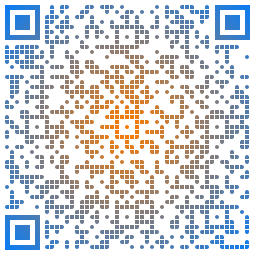
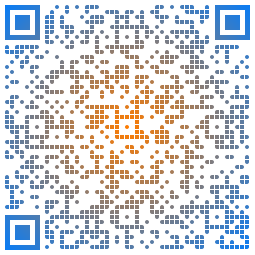
1st data integrity

diff --git a/main.py b/main.py
@@ -1,5 +1,7 @@
+import re
+import random
+from data_reliability import PhoneNumber, Name
 from driver import Driver
-import constants
 from tkinter import *
 import PIL.ImageTk as ImageTk
 import PIL.Image as Image
@@ -9,7 +11,7 @@ from qrcode.image.styledpil import StyledPilImage
 from qrcode.image.styles.moduledrawers import RoundedModuleDrawer, \
     CircleModuleDrawer, SquareModuleDrawer, GappedSquareModuleDrawer, QRModuleDrawer
 
-from qrcode.image.styles.colormasks import RadialGradiantColorMask, SquareGradiantColorMask, HorizontalGradiantColorMask
+from qrcode.image.styles.colormasks import RadialGradiantColorMask, SquareGradiantColorMask, HorizontalGradiantColorMask, VerticalGradiantColorMask
 
 root = Tk()
 root.title("Driver 2.0")
@@ -19,6 +21,8 @@ root.resizable(False, False)
 
 global drivr
 drivr = Driver(root)
+phno_secure_pattern = PhoneNumber.securepattern
+name_secure_pattern = Name.securepattern
 
 # Functions
 
@@ -31,6 +35,29 @@ def clear():
     address_box.delete(0, END)
     generate_button = Button(frame_1, text="GENERATE", state=DISABLED).grid(row=4, column=2, sticky=E)
     qr_code_initial = Label(frame_2, image=blank).grid(row=0, column=0, sticky=E+W)
+    clear_button = Button(frame_1, text="CLEAR", state=DISABLED, command=clear).grid(row=4, column=3, sticky=E + W)
+    randomize_button = Button(frame_2, text="RANDOMIZE", state=DISABLED).grid(row=1, column=0, pady=20)
+
+
+
+def color_randomizer():
+    edge_color = ()
+    r = random.randint(0, 200)
+    g = random.randint(0, 200)
+    b = random.randint(0, 200)
+    edge_color = (r, g, b)
+    if edge_color == (0, 0, 0) or edge_color == (200, 200, 200): edge_color = color_randomizer()
+    return edge_color
+
+def color_randomizer1():
+    edge_color = ()
+    r = random.randint(0, 150)
+    g = random.randint(0, 150)
+    b = random.randint(0, 150)
+    edge_color = (r, g, b)
+    if edge_color == (0, 0, 0) or edge_color == (200, 200, 200): edge_color = color_randomizer()
+    return edge_color
+
 
 def generate():
     qr = qrcode.QRCode(
@@ -47,28 +74,32 @@ def generate():
         image_factory=StyledPilImage,
         color_mask=RadialGradiantColorMask(center_color=(255, 124, 0), edge_color=(0, 124, 255)),
         module_drawer=RoundedModuleDrawer())
-    img.save("QR_Codes/demo2.png")
+    filename = "QR_Codes/" + str(drivr.name+"_"+drivr.phone_number) + ".png"
+    img.save(filename)
     # print("Generation Completed")
     # refresh_qr_code_button = Button(frame_2, text="REFRESH", command=refresh_qr_code).grid(row=1, column=0, sticky=E)
     # messagebox.showinfo("QR Code Status", "QR Code has been generated")
-    img = ImageTk.PhotoImage(Image.open("QR_Codes/demo2.png"))
-    qr_code_initial = Label(frame_2, image=img).grid(row=0, column=0, sticky=E+W)
-    qr_code_initial.configure(image=img)
-    qr_code_initial.image=img
+    global imgshow
+    imgshow = ImageTk.PhotoImage(Image.open(filename))
+    randomize_button = Button(frame_2, text="RANDOMIZE", command=randomize).grid(row=1, column=0, pady=20)
+    qr_code_initial = Label(frame_2, image=imgshow).grid(row=0, column=0, sticky=E+W)
+    print(type(qr_code_initial))
+    # qr_code_initial.configure(image=img)
+    # qr_code_initial.image=img
 
 
 def get_details():
 
-    if name_box.get() == "":
-        messagebox.showerror("Fill all the data", "fill the name")
+    if name_box.get() == "" or re.match(name_secure_pattern, name_box.get()) == None:
+        messagebox.showerror("Fill all the data", "fill VALID name")
         return
     drivr.name = name_box.get()
     if phone_box.get() == "":
-        messagebox.showerror("Fill all the data", "fill the phone number")
+        messagebox.showerror("Fill all the data", "fill VALID phone number")
         return
     drivr.phone_number = phone_box.get()
     if address_box.get() == "":
-        messagebox.showerror("Fill all the data", "fill the address")
+        messagebox.showerror("Fill all the data", "address can't be blank")
         return
     drivr.address = address_box.get()
 
@@ -86,9 +117,46 @@ def get_details():
     # print(name, phone, address, organisation_var, blood_group_var, month_validity, year_validity)
     clear_button = Button(frame_1, text="CLEAR", command=clear).grid(row=4, column=3, sticky=E+W)
     generate_button = Button(frame_1, text="GENERATE", command=generate).grid(row=4, column=2, sticky=E)
- 
+
+def mask_setting(mask):
+    if mask.__name__ == 'RadialGradiantColorMask':
+        return RadialGradiantColorMask(center_color=color_randomizer(), edge_color=color_randomizer1())
+    if mask.__name__ == 'SquareGradiantColorMask':
+        return SquareGradiantColorMask(back_color=(255, 255, 255), center_color=color_randomizer(), edge_color=color_randomizer1())
+    if mask.__name__ == 'HorizontalGradiantColorMask':
+        return HorizontalGradiantColorMask(back_color=(255, 255, 255), left_color=color_randomizer(), right_color=color_randomizer1())
+    if mask.__name__ == 'VerticalGradiantColorMask':
+        return VerticalGradiantColorMask(back_color=(255, 255, 255), top_color=color_randomizer(), bottom_color=color_randomizer1())
+    
+
+
+def randomize():
+    qr = qrcode.QRCode(
+        # error_correction=qrcode.constants.ERROR_CORRECT_H,
+        box_size=5,
+        border=1,
+        version=2
+    )
+
+    qr.add_data(data_to_show)
+    qr.make(fit=True)
+    img = qr.make_image(  image_factory=StyledPilImage,
+                    color_mask=mask_setting(color_masks[random.randint(0, len(color_masks)-1)]),
+                    module_drawer=modules[random.randint(0, len(modules)-1)]())
+    filename = "QR_Codes/" + str(drivr.name + "_" + drivr.phone_number) + ".png"
+    img.save(filename)
+    # print("Generation Completed")
+    # refresh_qr_code_button = Button(frame_2, text="REFRESH", command=refresh_qr_code).grid(row=1, column=0, sticky=E)
+    # messagebox.showinfo("QR Code Status", "QR Code has been generated")
+    img = ImageTk.PhotoImage(Image.open(filename))
+    qr_code_initial = Label(frame_2, image=img).grid(row=0, column=0, sticky=E + W)
+    qr_code_initial.configure(image=img)
+    qr_code_initial.image = img
+
 
 # constants
+modules = [CircleModuleDrawer, RoundedModuleDrawer, SquareModuleDrawer, GappedSquareModuleDrawer]
+color_masks = [RadialGradiantColorMask, SquareGradiantColorMask, HorizontalGradiantColorMask, VerticalGradiantColorMask]
 blood_groups = ["A+", "A-", "B+", "B-", "O+", "O-", "AB+", "AB-"]
 months = ["Jan", "Feb", "March", "April", "May", "June", "July", "Aug", "Sept", "Oct", "Nov", "Dec"]
 years = [x for x in range(2021, 2046)]
@@ -130,7 +198,7 @@ license_validity = Label(frame_0, text="Licence Validity:").grid(row=5, column=0
 data_entered = Label(frame_1, text=initial_data)
 data_entered.grid(row=0, column=0, padx=35, pady=25, columnspan=4, rowspan=4)
 
-global qr_code_initial
+# global qr_code_initial
 qr_code_initial = Label(frame_2, image=blank).grid(row=0, column=0, sticky=E+W)
 
 
@@ -167,6 +235,8 @@ button_quit = Button(frame_0, text="EXIT", command=root.quit).grid(row= 10, colu
 
 generate_button = Button(frame_1, text="GENERATE", state=DISABLED).grid(row=4, column=2, sticky=E)
 clear_button = Button(frame_1, text="CLEAR", state=DISABLED, command=clear).grid(row=4, column=3, sticky=E+W)
+
+randomize_button = Button(frame_2, text="RANDOMIZE", state=DISABLED).grid(row=1, column=0, pady=20)
 
 data = drivr.name+"\n"+drivr.phone_number+"\n"+drivr.address+"\n"+drivr.organisation+"\n"+drivr.blood_group
 

diff --git a/data_reliability.py b/data_reliability.py
@@ -1,4 +1,10 @@
 import re
 
-class PhoneNumber():
-    securePattern = r'[0-9]{10}'
+class Security():
+    securepattern=r''
+
+class PhoneNumber(Security):
+    securepattern = r'[0-9]{10}'
+
+class Name(Security):
+    securepattern = r'[^0-9]'
